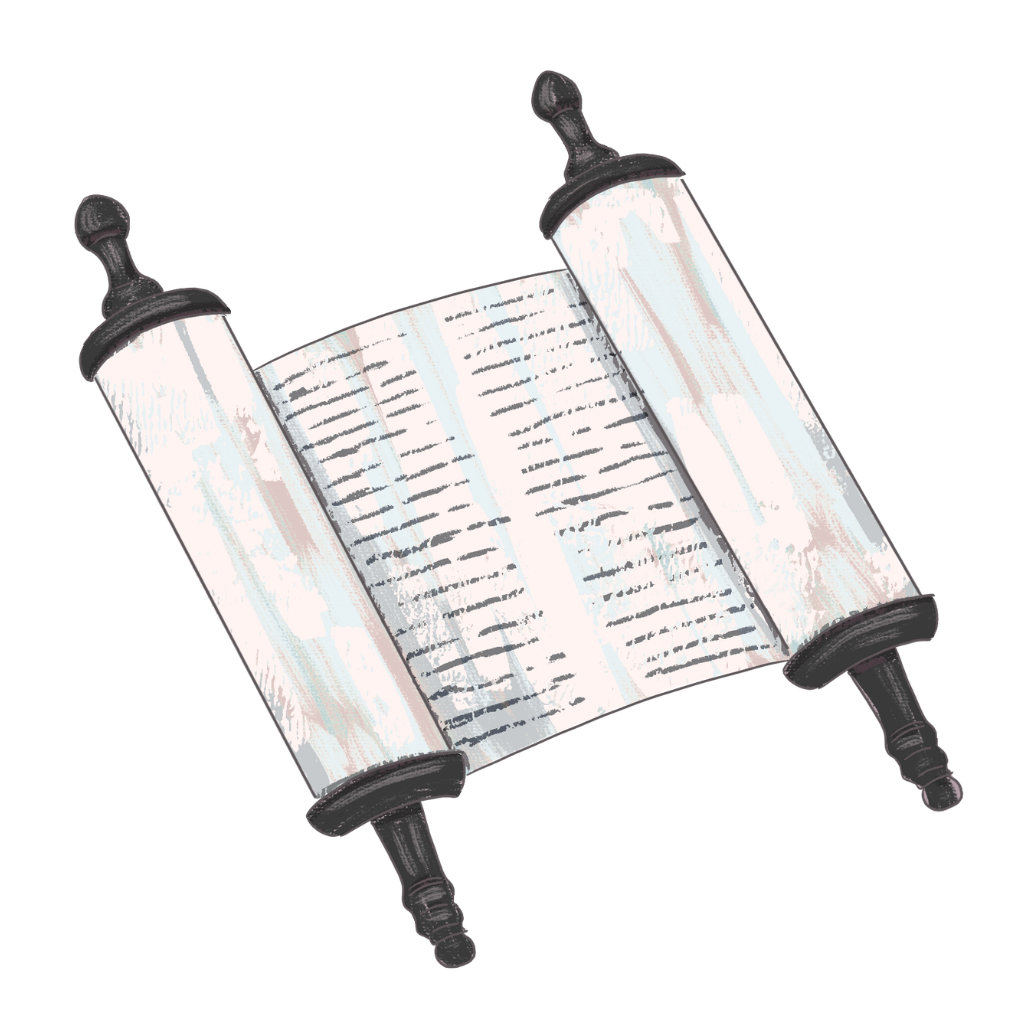
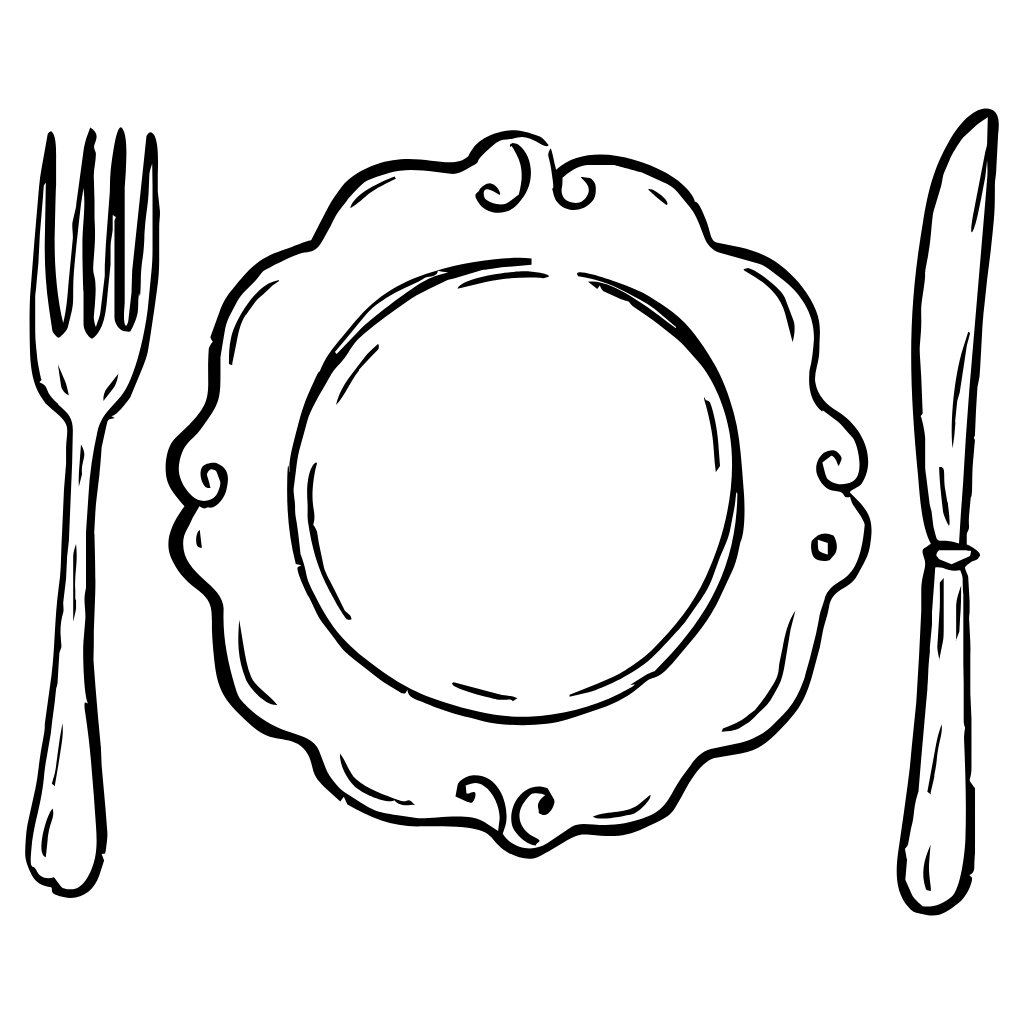
Refine dish history button

Changed region(s): [[0.0, 0.0625, 1.0, 0.9688]]

diff --git a/script.js b/script.js
@@ -293,7 +293,7 @@ function createMenuItem(item, category) {
         historyVideoButton.type = 'button';
         historyVideoButton.className = 'history-video-button';
         historyVideoButton.setAttribute('aria-label', `Watch the origin story for ${item.name}`);
-        historyVideoButton.setAttribute('data-tooltip', 'Watch the dish origin story');
+        historyVideoButton.setAttribute('data-tooltip', 'Click to watch the dish origin story');
         historyVideoButton.innerHTML = '<span>Dish history</span><img src="images/HistoryVideoIcon1.png" alt="">';
         historyVideoButton.addEventListener('click', event => {
             event.stopPropagation();

diff --git a/style.css b/style.css
@@ -592,7 +592,7 @@ input[type="date"] {
     vertical-align: middle;
     border: 0;
     border-radius: 4px;
-    background: #6c757d;
+    background: #814507;
     cursor: pointer;
     color: white;
     font-family: 'Montserrat', sans-serif;
@@ -649,10 +649,8 @@ input[type="date"] {
 .history-video-button:hover,
 .history-video-button:focus-visible {
     animation: none;
-    background: #5a6268;
+    background: #bf6914;
     box-shadow: 0 3px 8px rgba(0, 0, 0, 0.25);
-    outline: 2px solid #3498db;
-    outline-offset: 2px;
 }
 
 @keyframes history-button-pulse {
